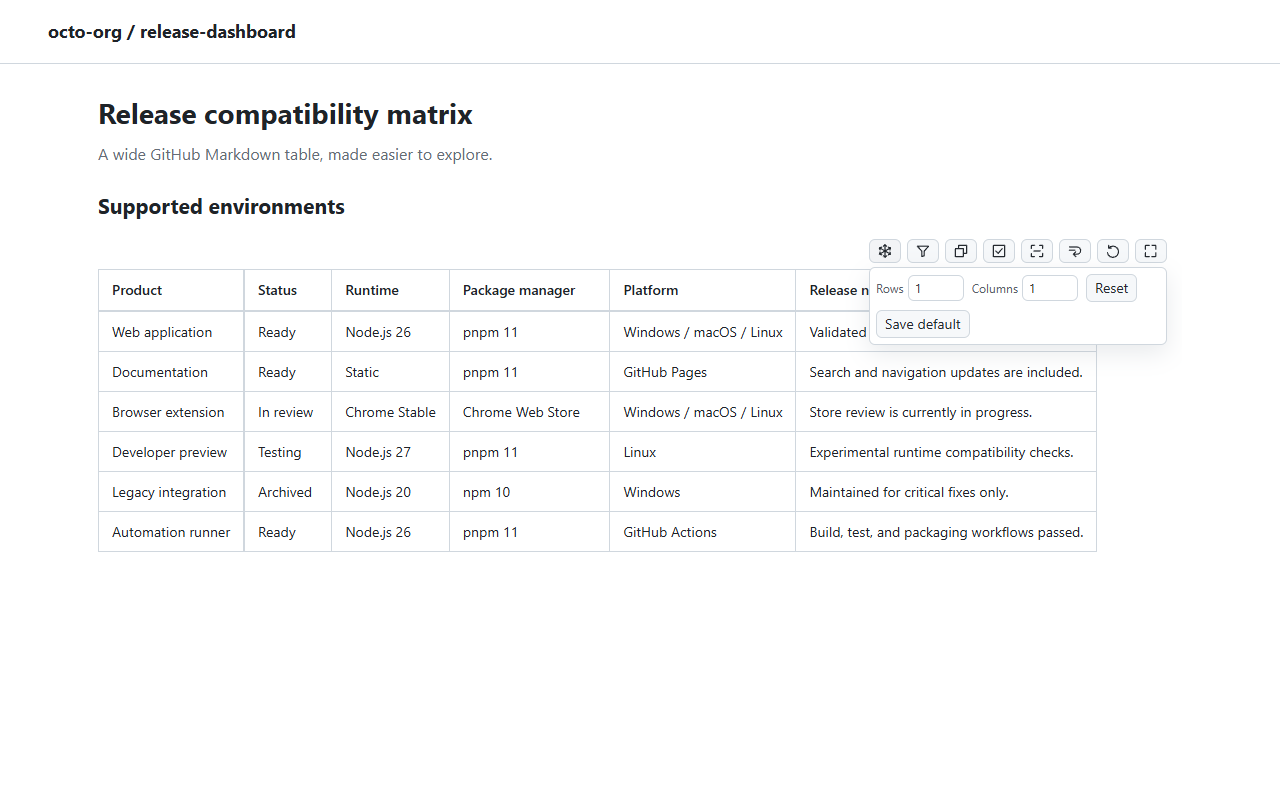
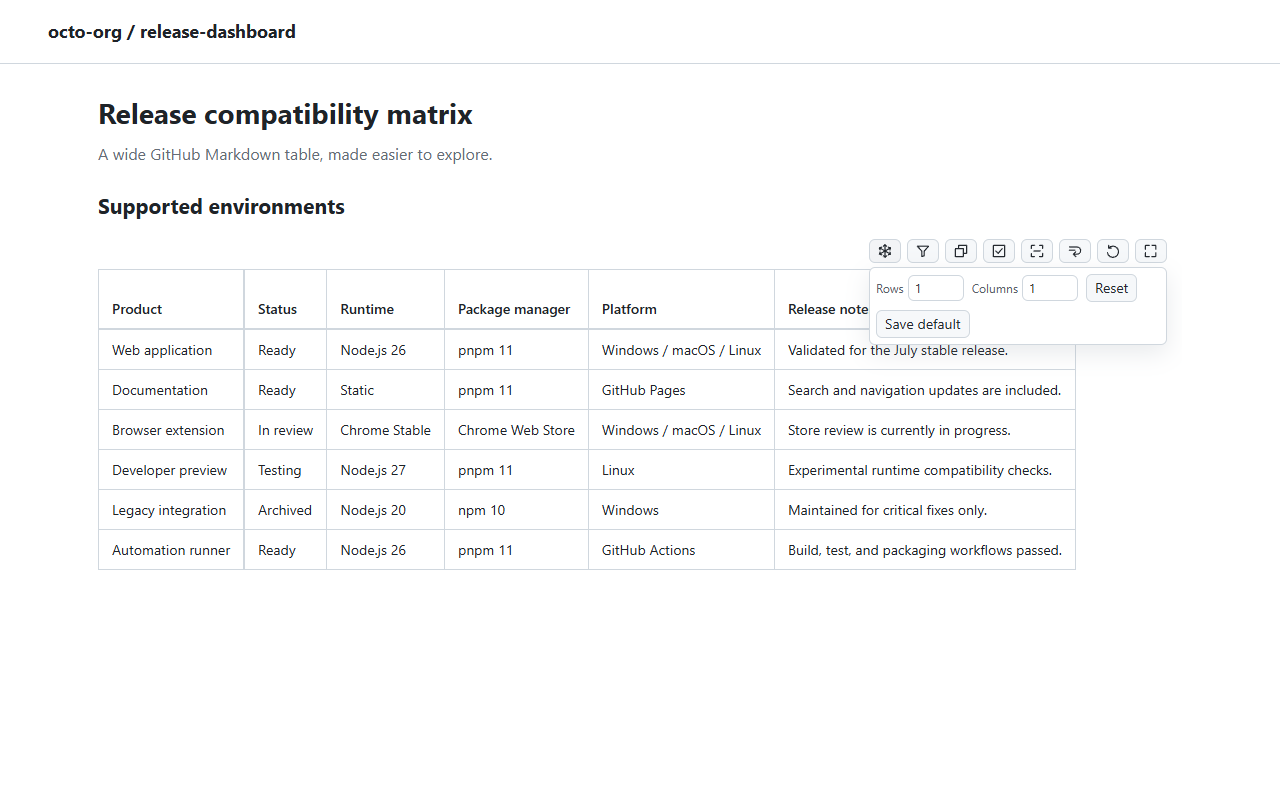
Prevent overlapping actions in narrow table headers

Changed region(s): [[0.0625, 0.3438, 0.8438, 0.7188]]

diff --git a/e2e/table-enhancer.spec.ts b/e2e/table-enhancer.spec.ts
@@ -396,9 +396,8 @@ test("keeps row selection usable with a hidden first column, freezing, sorting, 
   await wrapper.getByLabel("Frozen rows").fill("1");
   await wrapper.getByLabel("Frozen columns").fill("1");
   await wrapper.getByRole("button", { name: "Freeze", exact: true }).click();
-  // Narrow headers can overlap the existing sort and hide buttons; use the keyboard action.
-  await wrapper.getByRole("button", { name: "Hide column 1", exact: true }).focus();
-  await wrapper.getByRole("button", { name: "Hide column 1", exact: true }).press("Space");
+  await wrapper.locator("th").first().hover();
+  await wrapper.getByRole("button", { name: "Hide column 1", exact: true }).click();
   await wrapper.getByRole("button", { name: "Select rows", exact: true }).click();
   const originalRow = wrapper
     .locator("tbody tr")
@@ -421,6 +420,90 @@ test("keeps row selection usable with a hidden first column, freezing, sorting, 
   await wrapper.getByRole("button", { name: "Select rows", exact: true }).press("Escape");
   await expect(wrapper).not.toHaveAttribute("data-github-table-enhancer-focus-mode", "true");
 });
+
+for (const focusMode of [false, true]) {
+  test(`keeps narrow header actions separate in ${focusMode ? "Focus" : "normal"} mode`, async ({
+    page,
+  }, testInfo) => {
+    await page.goto(fixtureUrl);
+    const wrapper = page.locator(".github-table-enhancer-scroll").nth(1);
+    if (focusMode) await wrapper.getByRole("button", { name: "Expand", exact: true }).click();
+    await wrapper.getByRole("button", { name: "Freeze", exact: true }).click();
+    await wrapper.getByLabel("Frozen rows").fill("1");
+    await wrapper.getByLabel("Frozen columns").fill("1");
+    await wrapper.getByRole("button", { name: "Freeze", exact: true }).click();
+    const header = wrapper.locator("th").first();
+    const sort = wrapper.getByRole("button", { name: "Sort by column 1", exact: true });
+    const hide = wrapper.getByRole("button", { name: "Hide column 1", exact: true });
+    const resize = header.locator(".github-table-enhancer-column-resize-handle");
+
+    for (const stage of ["natural", "fit", "minimum"]) {
+      if (stage === "fit") await wrapper.getByRole("button", { name: "Fit", exact: true }).click();
+      if (stage === "minimum") {
+        const handleBox = await resize.boundingBox();
+        const headerBox = await header.boundingBox();
+        if (!handleBox || !headerBox) throw new Error("Expected a visible resize handle");
+        const x = handleBox.x + 1;
+        const y = handleBox.y + handleBox.height / 2;
+        await page.mouse.move(x, y);
+        await page.mouse.down();
+        await page.mouse.move(x - headerBox.width, y, { steps: 5 });
+        await page.mouse.up();
+        await expect(wrapper.locator("col").first()).toHaveCSS("width", "48px");
+      }
+
+      await header.hover();
+      const boxes = await Promise.all([
+        header.boundingBox(),
+        sort.boundingBox(),
+        hide.boundingBox(),
+        resize.boundingBox(),
+      ]);
+      const [cellBox, sortBox, hideBox, resizeBox] = boxes;
+      if (!cellBox || !sortBox || !hideBox || !resizeBox)
+        throw new Error("Expected visible header controls");
+      expect(sortBox.x).toBeGreaterThanOrEqual(cellBox.x);
+      expect(sortBox.x + sortBox.width).toBeLessThanOrEqual(hideBox.x);
+      expect(hideBox.x + hideBox.width).toBeLessThanOrEqual(resizeBox.x);
+      expect(hideBox.y + hideBox.height).toBeLessThanOrEqual(cellBox.y + cellBox.height);
+      for (const direction of ["ascending", "descending", "none"]) {
+        await sort.click();
+        await expect(header).toHaveAttribute("aria-sort", direction);
+      }
+      if (stage === "minimum") {
+        expect(cellBox.width).toBeLessThanOrEqual(49);
+        await wrapper.getByRole("button", { name: "Select rows", exact: true }).click();
+        const all = wrapper.getByRole("checkbox", { name: "Select all visible rows" });
+        await all.uncheck();
+        await all.check();
+        await header.hover();
+        await wrapper.screenshot({ path: testInfo.outputPath("narrow-header.png") });
+        await wrapper.getByRole("button", { name: "Cancel", exact: true }).click();
+      }
+      await header.hover();
+      await hide.click();
+      await expect(header).toBeHidden();
+      await wrapper.getByRole("button", { name: "Show hidden", exact: true }).click();
+      await expect(header).toBeVisible();
+    }
+    await wrapper.getByRole("button", { name: "Reset table view", exact: true }).click();
+    // Empty headings must still reserve enough width for both actions in intrinsic layout.
+    await header.evaluate((cell) => {
+      for (const node of Array.from(cell.childNodes))
+        if (node.nodeType === Node.TEXT_NODE) node.textContent = "";
+    });
+    await header.hover();
+    const emptyBox = await header.boundingBox();
+    const sortBox = await sort.boundingBox();
+    if (!emptyBox || !sortBox) throw new Error("Expected an empty heading with controls");
+    expect(emptyBox.width).toBeGreaterThanOrEqual(48);
+    expect(sortBox.x).toBeGreaterThanOrEqual(emptyBox.x);
+    await sort.click();
+    await expect(header).toHaveAttribute("aria-sort", "ascending");
+    await hide.click();
+    await expect(header).toBeHidden();
+  });
+}
 
 test("explains why a filter leaves no visible rows", async ({ page }) => {
   await page.goto(fixtureUrl);

diff --git a/public/styles.css b/public/styles.css
@@ -384,6 +384,13 @@ body.github-table-enhancer-focus-mode-open {
   white-space: nowrap;
 }
 
+/* Keep header actions above the content, including at the 48px minimum column width. */
+.github-table-enhancer-scroll > table [aria-sort] {
+  box-sizing: border-box;
+  min-width: 48px;
+  padding-top: 28px;
+}
+
 .github-table-enhancer-scroll > table[data-github-table-enhancer-resized-columns="true"] th,
 .github-table-enhancer-scroll > table[data-github-table-enhancer-resized-columns="true"] td {
   max-width: 100%;
@@ -457,12 +464,13 @@ body.github-table-enhancer-focus-mode-open {
   cursor: pointer;
   display: inline-flex;
   font: inherit;
-  height: 20px;
+  height: 18px;
   justify-content: center;
-  margin-left: 4px;
-  padding: 0 3px;
-  position: relative;
-  vertical-align: middle;
+  padding: 0;
+  position: absolute;
+  right: 28px;
+  top: 4px;
+  width: 18px;
   z-index: 7;
 }
 
@@ -482,7 +490,15 @@ body.github-table-enhancer-focus-mode-open {
 
 .github-table-enhancer-scroll
   > table
-  th[aria-sort="none"]:hover
+  [aria-sort]:not([aria-sort="none"])
+  > .github-table-enhancer-sort-button {
+  color: var(--fgColor-accent, var(--color-accent-fg));
+  font-size: 0;
+}
+
+.github-table-enhancer-scroll
+  > table
+  [aria-sort="none"]:hover
   > .github-table-enhancer-sort-button {
   opacity: 0.65;
 }
@@ -511,23 +527,9 @@ body.github-table-enhancer-focus-mode-open {
   font-size: 16px;
 }
 
-.github-table-enhancer-scroll
-  > table
-  [aria-sort]:not([aria-sort="none"])
-  > .github-table-enhancer-sort-button {
-  color: var(--fgColor-accent, var(--color-accent-fg));
-}
-
-.github-table-enhancer-scroll
-  > table
-  [aria-sort]:not([aria-sort="none"])
-  > .github-table-enhancer-sort-button {
-  font-size: 0;
-}
-
 .github-table-enhancer-hide-button--column {
-  right: 10px;
-  top: 2px;
+  right: 6px;
+  top: 4px;
 }
 
 .github-table-enhancer-scroll > table th:hover > .github-table-enhancer-hide-button,

diff --git a/docs/e2e-table-fixture.md b/docs/e2e-table-fixture.md
@@ -32,6 +32,7 @@ The separate `pnpm demo:video` command records the store presentation scenario. 
 - Clicking Save default should persist the current rows and columns for the nearest preceding heading text.
 - Reloading the page should apply the saved default to tables with the same preceding heading text.
 - Hovering a table header cell should show its column hide button and unsorted sort button.
+- Header sort and hide buttons should sit side by side above the heading text. Resize a column to its minimum width and confirm both buttons and the resize edge remain individually clickable, including with Wrap, frozen rows/columns, and Focus mode.
 - Select rows should show checked boxes in the first visible column for visible body rows and a select-all checkbox in the header. No row hide buttons should appear.
 - Dragging a column edge should resize that displayed column without changing the surrounding GitHub layout.
 - Clicking Fit should set readable column widths and enable wrapped cell rendering in one step.

diff --git a/docs/user-guide.md b/docs/user-guide.md
@@ -67,6 +67,8 @@ Filtering is temporary and is not saved as a default.
 
 Hover a column header to reveal its unsorted sort button, then select it to sort the table body by that column. Once selected, the ascending or descending direction remains visible. Repeated selections cycle through ascending, descending, and original Markdown order. Numeric and date-like values are compared by value; other text uses case-insensitive natural ordering.
 
+Sort and column-hide buttons sit side by side above the header text, leaving the column edge available for resizing even when a column is narrow.
+
 Sorting is temporary. It preserves the identity of manually hidden and filtered rows as their positions change.
 
 ## Hide and restore rows or columns
